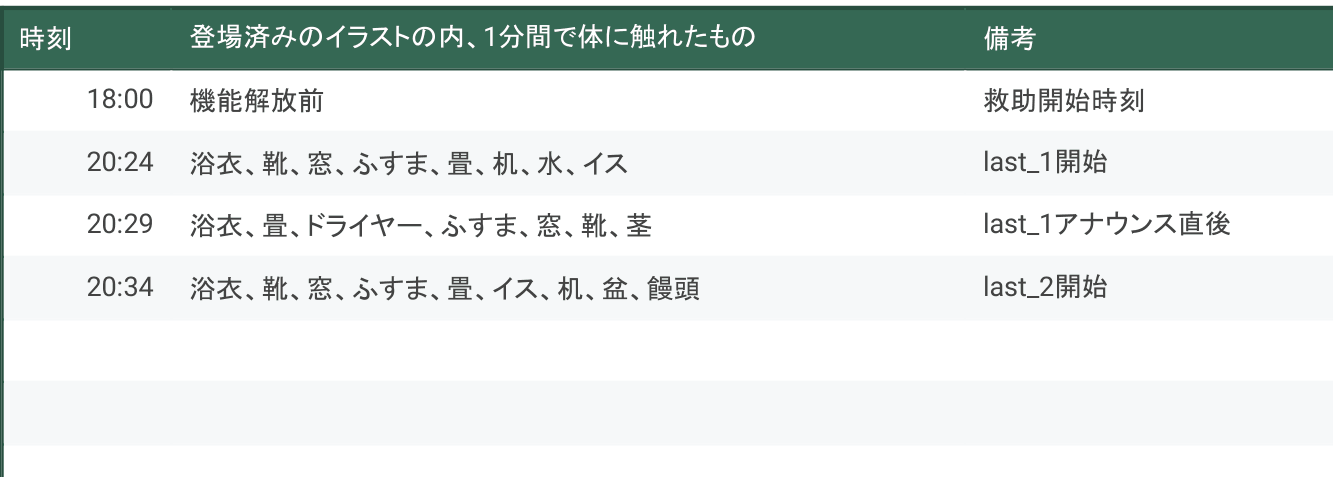
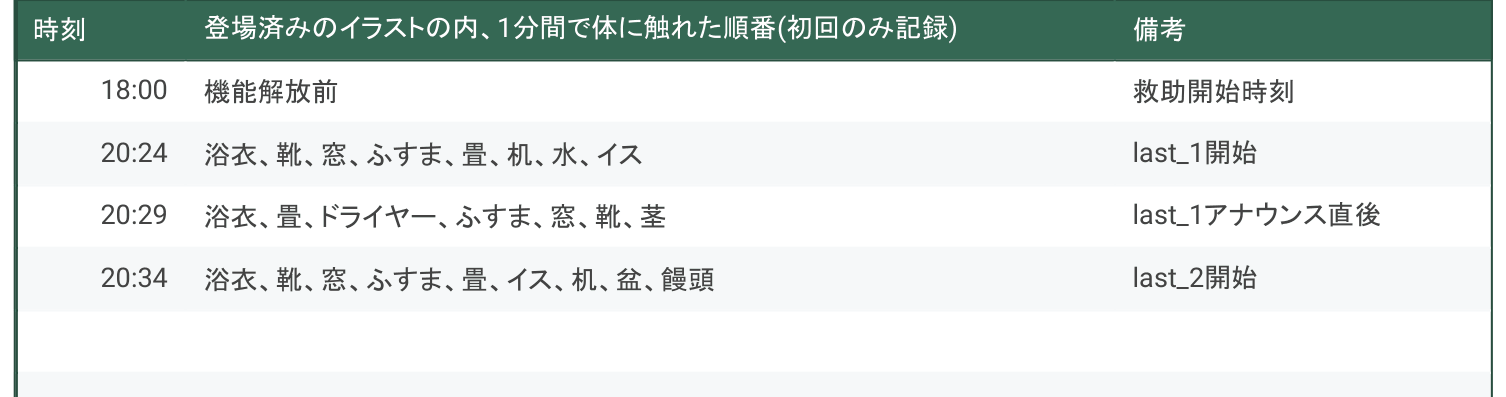
feat: add hints module, final riddle image, and HomeClient component

diff --git a/app/HomeClient.tsx b/app/HomeClient.tsx
@@ -121,17 +121,16 @@ export default function Home() {
     last_2: {
       messages: [{ sender: '先輩', text: 'マニュアル2ページ目は申し訳ない。この救助システムのバージョンだと、イラストと実物が異なることを失念していた' },
       { sender: '先輩', text: 'だが、何のアイテムが良いか私はすでに検討がついた。この謎は救助システムから出力された謎に少し書き加えたものだ。私のこの謎を解いて、まずは自分で状況を整理してみてくれ' },
-      { sender: '先輩', text: 'この謎は、もしもイラスト数最大10個が適用されていなかった場合、こうだったかもしれないと予測したものだ。謎の緑色の部分が書き加えた部分だ。変化を加えたことで、1つだけより具体的になったイラストの名称を答えてくれ' },
-      { sender: '先輩', text: 'ヒントを聞いても謎が解けなかったり、謎が解けても理由が分からない場合、「状況整理を行う」と言ってくれ' }], phase1Complete: false, isCleared: false
+      { sender: '先輩', text: 'この謎は、もしもイラスト数最大10個が適用されていなかった場合、こうだったかもしれないと予測したものだ。謎の緑色の部分が書き加えた部分だ。変化を加えたことで、1つだけより具体的になったイラストの名称を答えてくれ' }], phase1Complete: false, isCleared: false
     },
     last_3: {
       messages: [{ sender: '先輩', text: 'その通りだ。その根拠がこの上部の資料だ。開いて確認してくれ。一度誤答した際に解放されたスキャン機能だ' },
-      { sender: '先輩', text: '5分間隔で、登場済みイラストのアイテムに触れた順に記録されている。3行目の記録を見ると、アナウンスを受けてハッキング液にアイテムを提出しに行く際、明らかに外に出ていそうだ' },
-      { sender: '先輩', text: 'そしてマニュアル液の違和感を振り返ると、閉鎖空間の場所について一つの結論に辿り着いた' },
-      { sender: '先輩', text: '閉鎖空間の場所や救助対象者のスキャン結果に着目して、最後のアイテムを選択肢から選び、一発でこれと分かる詳細な名称も答えてくれ。必要であれば「状況整理を行う」と言ってくれ' }], phase1Complete: false, isCleared: false
+      { sender: '先輩', text: '5分間隔で、登場済みイラストのアイテムに触れた順に記録されている。3行目の記録を見ると、アナウンスを受けてハッキング液にアイテムを提出しに行く際、ドアではなく窓から外に出ていそうだ' },
+      { sender: '先輩', text: '特徴的な1段式の冷蔵庫、マニュアル液の違和感を振り返ると、閉鎖空間の場所について一つの結論に辿り着いた' },
+      { sender: '先輩', text: '閉鎖空間の場所、救助対象者のスキャン結果に着目して、最後のアイテムを選択肢から選び、一発でこれと分かる詳細な名称を推測して答えてくれ。必要であれば「状況整理を行う」と言ってくれ' }], phase1Complete: false, isCleared: false
     },
     last_4: {
-      messages: [{ sender: '先輩', text: 'ああ、おそらく座椅子だ。だが、もう誤答はできない。写真撮影機能を駆使して確実にする必要があるが、写真撮影は名称を指定しても発動できない。撮りたいアイテムに触れているものを指定し、正解のシルエットのアイテムに絞ることができたら撮影される' },
+      messages: [{ sender: '先輩', text: 'ああ、おそらく座椅子だ。だが、もう誤答はできない。写真撮影機能を駆使して確実にする必要があるが、写真撮影は名称を指定しても発動できない。撮りたいアイテムに触れているものを指定し、正解のシルエットのアイテム1種類に絞ることができたら撮影される' },
       { sender: '先輩', text: 'LAST3で確認したスキャン結果の画像を見てくれ。ふすまを開けて露天風呂から部屋へ入ったと考えると、畳の上に座椅子が存在しているだろう。加えてもう一つだけ自由入力で指定がする必要がある' },
       { sender: '先輩', text: '救助対象者が現在座っているかは不明だ。当てにはできない。状況から推測して、座椅子に触れているものを自由入力で答えてくれ。イラストに登場している必要はない' }
       ], phase1Complete: false, isCleared: false
@@ -164,6 +163,7 @@ export default function Home() {
   useEffect(() => {
     if (activeTab === 'last_4') {
       setSelectedItem("畳");
+      setLast2Text(""); // 初期値なし
     } else {
       setSelectedItem("");
     }
@@ -330,7 +330,7 @@ export default function Home() {
         } else if (selection === 'ドライヤー_forced') {
           displayItem = 'ドライヤー';
         }
-        if (activeTab !== 'last_4') {
+        if (activeTab !== 'last_4' && activeTab !== 'last_3') {
           addMessage(activeTab, '救助システム', `> アナウンス: ${displayItem}`);
         }
       }
@@ -517,7 +517,7 @@ export default function Home() {
                 </div>
 
                 <div className="flex flex-wrap items-center justify-center gap-3 text-lg sm:text-xl font-bold text-neutral-100 font-sans tracking-wider">
-                  <div className="w-[140px] border-b-2 border-cyan-400 pb-1">
+                  <div className="w-[80px] border-b-2 border-cyan-400 pb-1">
                     <CustomSelect
                       value={selectedItem}
                       onChange={setSelectedItem}
@@ -527,18 +527,18 @@ export default function Home() {
                       disabled={true}
                     />
                   </div>
-                  <span>に触れている</span>
-                  <div className="w-[100px] border-b-2 border-cyan-400 pb-1">
+                  <span>と</span>
+                  <div className="w-[120px] border-b-2 border-cyan-400 pb-1">
                     <input
                       type="text"
-                      maxLength={4}
+                      maxLength={10}
                       value={last2Text}
                       onChange={(e) => setLast2Text(e.target.value)}
-                      placeholder="？"
+                      placeholder="自由入力"
                       className="w-full bg-transparent border-none text-center text-cyan-400 focus:outline-none placeholder:text-neutral-700"
                     />
                   </div>
-                  <span>座椅子</span>
+                  <span>に触れている座椅子</span>
                 </div>
 
                 <button
@@ -722,7 +722,22 @@ export default function Home() {
 
                 {/* 質問5 */}
                 <div className="space-y-3">
-                  <p className="text-sm text-neutral-300">5. この気温の中、2時間30分経ってもハッキング液が冷めないのはなぜか？</p>
+                  <p className="text-sm text-neutral-300">5. ハッキング液に提出する際のスキャン結果を見ると、ハッキング液はどこにありそうか？</p>
+                  <select
+                    value={reviewAnswers.scan_location}
+                    onChange={(e) => setReviewAnswers(prev => ({ ...prev, scan_location: e.target.value }))}
+                    className={`w-full bg-black border rounded px-3 py-2 text-sm focus:outline-none transition-colors ${reviewAnswers.scan_location === '庭' ? 'border-green-500 text-green-400' : reviewAnswers.scan_location ? 'border-red-500 text-red-400' : 'border-neutral-700 text-neutral-400'}`}
+                  >
+                    <option value="">選択してください</option>
+                    <option value="庭">庭</option>
+                    <option value="風呂場">風呂場</option>
+                    <option value="ベランダ">ベランダ</option>
+                  </select>
+                </div>
+
+                {/* 質問6 */}
+                <div className="space-y-3">
+                  <p className="text-sm text-neutral-300">6. この気温の中、2時間30分経ってもハッキング液が冷めないのはなぜか？</p>
                   <select
                     value={reviewAnswers.item}
                     onChange={(e) => setReviewAnswers(prev => ({ ...prev, item: e.target.value }))}
@@ -735,16 +750,16 @@ export default function Home() {
                   </select>
                 </div>
 
-                {/* 質問6 */}
+                {/* 質問7 */}
                 <div className="space-y-3">
-                  <p className="text-sm text-neutral-300">6. ハッキング液は何に溶けていますか？</p>
+                  <p className="text-sm text-neutral-300">7. ハッキング液は何に溶けていますか？</p>
                   <select
                     value={reviewAnswers.q5}
                     onChange={(e) => setReviewAnswers(prev => ({ ...prev, q5: e.target.value }))}
                     className={`w-full bg-black border rounded px-3 py-2 text-sm focus:outline-none transition-colors ${reviewAnswers.q5 === '温泉' ? 'border-green-500 text-green-400' : reviewAnswers.q5 ? 'border-red-500 text-red-400' : 'border-neutral-700 text-neutral-400'}`}
                   >
                     <option value="">選択してください</option>
-                    <option value="温泉">温泉</option>
+                    <option value="温泉">温泉（露天風呂）</option>
                   </select>
                 </div>
 
@@ -757,7 +772,7 @@ export default function Home() {
                   </button>
                 ) : (
                   <div className="space-y-3 animate-in slide-in-from-top-2 duration-500">
-                    <p className="text-sm text-neutral-300">7. 温泉と温泉饅頭。歯ブラシ、カミソリ、1段の小さい冷蔵庫、浴衣、畳、灰皿...。ここはどういう場所の可能性が高い？</p>
+                    <p className="text-sm text-neutral-300">8. 露天風呂と温泉饅頭。歯ブラシ、カミソリ、1段の小さい冷蔵庫、浴衣、畳、灰皿...。ここはどういう場所の可能性が高い？</p>
                     <select
                       value={reviewAnswers.q6}
                       onChange={(e) => setReviewAnswers(prev => ({ ...prev, q6: e.target.value }))}
@@ -766,24 +781,35 @@ export default function Home() {
                       <option value="">選択してください</option>
                       <option value="自宅">自宅</option>
                       <option value="学校">学校</option>
-                      <option value="旅館">旅館</option>
+                      <option value="旅館">温泉旅館</option>
+                    </select>
+
+                    <p className="text-sm text-neutral-300">9. ハッキング液が窓から出た先にあり、畳やふすまが中にある。温泉旅館の中でもどういう場所か？</p>
+                    <select
+                      value={reviewAnswers.q7}
+                      onChange={(e) => setReviewAnswers(prev => ({ ...prev, q7: e.target.value }))}
+                      className={`w-full bg-black border rounded px-3 py-2 text-sm focus:outline-none transition-colors ${reviewAnswers.q7 === '露天風呂付きの和室（客室）' ? 'border-green-500 text-green-400' : reviewAnswers.q7 ? 'border-red-500 text-red-400' : 'border-neutral-700 text-neutral-400'}`}
+                    >
+                      <option value="">選択してください</option>
+                      <option value="大浴場">大浴場</option>
+                      <option value="露天風呂付きの和室（客室）">露天風呂付きの和室（客室）</option>
                     </select>
                   </div>
                 )}
               </div>
 
-              {reviewAnswers.who === '37' && reviewAnswers.timing === 'STEP2' && reviewAnswers.where === 'お風呂' && reviewAnswers.miss === '8' && reviewAnswers.item === '元々' && reviewAnswers.q5 === '温泉' && reviewAnswers.q6 === '旅館' && (
+              {reviewAnswers.who === '37' && reviewAnswers.timing === 'STEP2' && reviewAnswers.where === 'お風呂' && reviewAnswers.miss === '8' && reviewAnswers.scan_location === '風呂場' && reviewAnswers.item === '元々' && reviewAnswers.q5 === '温泉' && reviewAnswers.q6 === '旅館' && reviewAnswers.q7 === '露天風呂付きの和室（客室）' && (
                 <div className="animate-in zoom-in duration-500 bg-green-900/20 border border-green-500/50 p-4 rounded-lg text-center">
                   <p className="text-green-400 font-bold tracking-widest text-sm">状況整理完了</p>
-                  <p className="text-xs text-neutral-300 mt-2">{unlockedTabs.includes('last_3') ? 'LAST 3' : 'LAST 2'}に戻り、答えを導いてください。</p>
+                  <p className="text-xs text-neutral-300 mt-2">LAST 3に戻り、答えを導いてください。</p>
                 </div>
               )}
               <button
-                onClick={() => setActiveTab(unlockedTabs.includes('last_3') ? 'last_3' : 'last_2')}
+                onClick={() => setActiveTab('last_3')}
                 className="w-full bg-cyan-900/30 text-cyan-400 py-3 rounded font-bold border border-cyan-800 hover:bg-cyan-800/50 hover:text-cyan-100 transition-all text-xs uppercase tracking-[0.2em] mt-10 shadow-[0_0_15px_rgba(8,145,178,0.1)] flex items-center justify-center gap-2"
               >
                 <svg width="12" height="12" viewBox="0 0 24 24" fill="none" stroke="currentColor" strokeWidth="3" strokeLinecap="round" strokeLinejoin="round"><path d="M19 12H5M12 19l-7-7 7-7" /></svg>
-                {unlockedTabs.includes('last_3') ? 'LAST 3' : 'LAST 2'}に戻る
+                LAST 3に戻る
               </button>
             </div>
           </div>
@@ -806,7 +832,7 @@ export default function Home() {
             {!state.isCleared && !isInputCollapsed && (
               <>
                 <div className="flex items-center gap-2 px-1 mb-1.5">
-                  {(activeTab === 'last_2' || activeTab === 'last_3') && (
+                  {activeTab === 'last_3' && (
                     <button
                       onClick={() => {
                         if (!unlockedTabs.includes('situation_review')) {
@@ -1190,10 +1216,7 @@ export default function Home() {
       <HintDialog
         hints={(() => {
           const allHints = HINTS[activeTab] || [];
-          if (activeTab === 'last_2' && !unlockedTabs.includes('situation_review')) {
-            // "ここから先は情報整理ボタンを押してから解放される" is at index 4
-            return allHints.slice(0, 5);
-          }
+
           return allHints;
         })()}
         isOpen={showHints}

diff --git a/app/hints.ts b/app/hints.ts
@@ -84,15 +84,13 @@ export const HINTS: Record<string, string[]> = {
     'イラストの冷蔵庫、冷凍庫や野菜室が引き出し式に見えるな'
   ],
   'last_2': [
-    '解き方は変わらない',
+    '解き方や法則は変わらない',
     'イラスト10個までの制約が無かった場合、右側はカン（缶）が一つ増えていたということだろう',
     '右側のイラストを言い換えて文字を減らすことは難しそうだ。左側のイラストを言い換えることはできないだろうか',
-    'これまでの違和感について考えないと解けないかもしれない',
-    'ここから先は情報整理ボタンを押してから解放される',
     '少なくとも左側にも「お」は増えている',
     '扇子、饅頭、墨汁、hの中でより詳細に表現できるものはないだろうか',
     'イラストが全て見えていないものが怪しそうだ',
     '饅頭、もっと詳細に言うことはできないだろうか',
-    '先輩の情報整理で出た単語が重要そうだ'
+    '「かん」を変換すると「お」に加えて「せん、ん」が左側に追加される。'
   ]
 };
